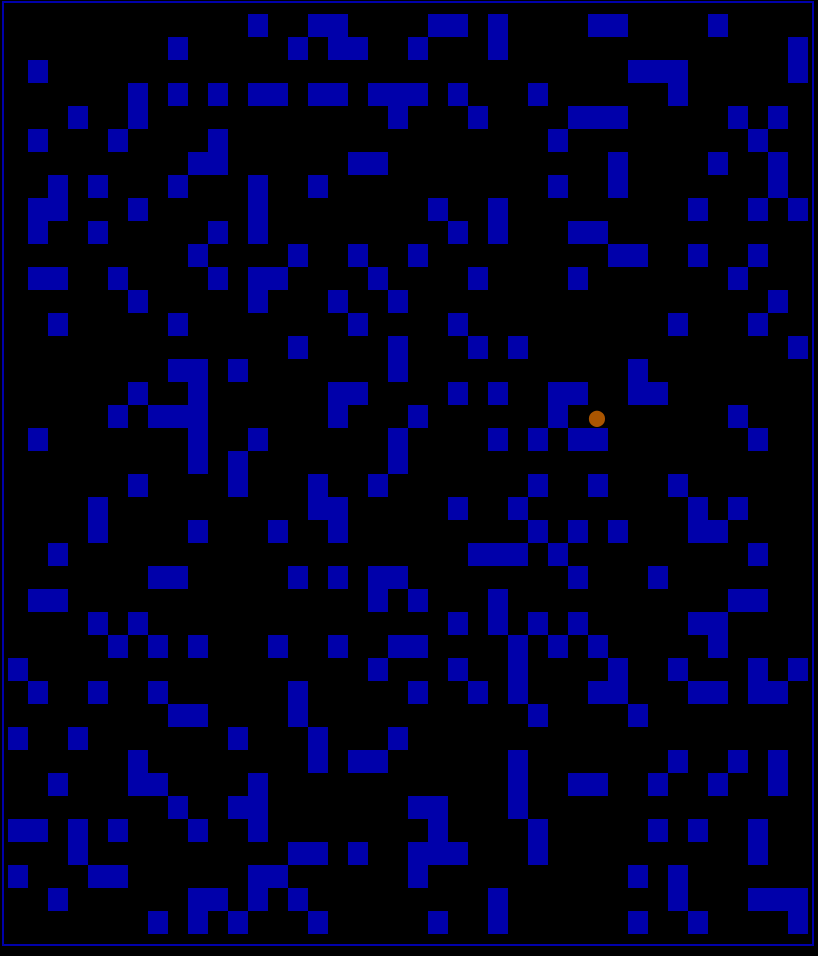
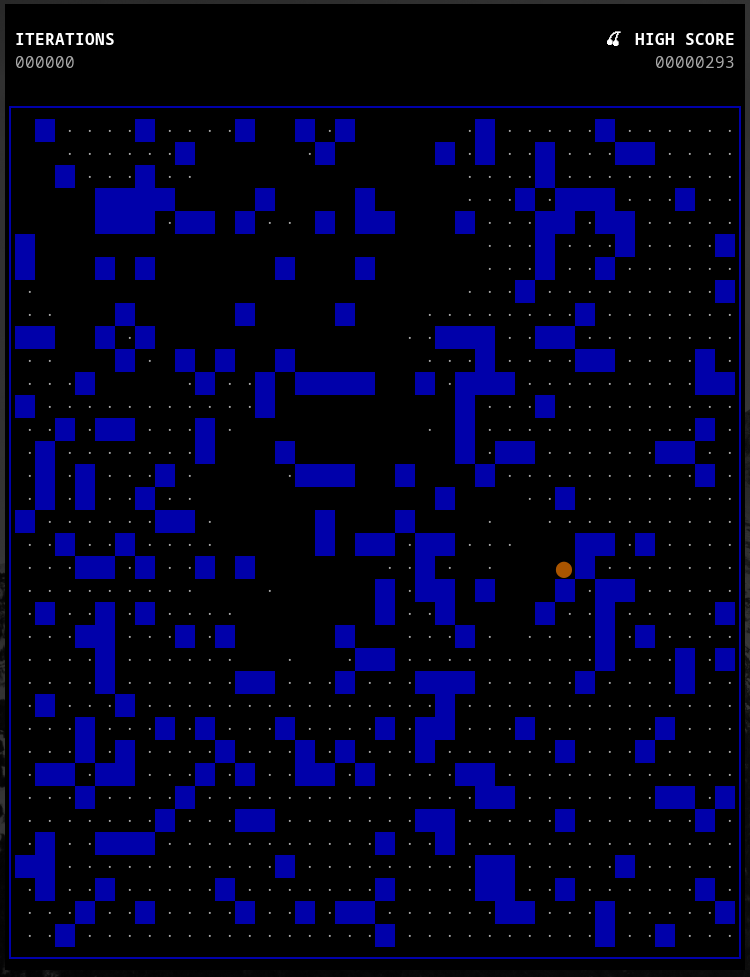
Added score display. Wrap randomization within the Maze object

diff --git a/src/Maze.py b/src/Maze.py
@@ -15,7 +15,7 @@ from Action import Action
 
 
 class Maze:
-    def __init__(self, size, data):
+    def __init__(self, size, data=None, wall_coverage=None, filled_reward=False):
         self._sprite = {MazeObject.WALL: ("█", "█"), MazeObject.AGENT: ("⬤", " "), MazeObject.EMPTY: (" ", " "),
                         MazeObject.ENEMIES: ("⬤", " "), MazeObject.REWARD: (" ", "·")}
         self._color = {MazeObject.WALL: curses.color_pair(2), MazeObject.AGENT: curses.color_pair(3),
@@ -24,21 +24,46 @@ class Maze:
         self._move = {Action.UP: (-1, 0), Action.DOWN: (1, 0), Action.LEFT: (0, -1), Action.RIGHT: (0, 1)}
         self._size = size
 
-        self._box = curses.newwin(self._size + 2, (self._size + 1) * 2, 0, 0)
+        self._box = curses.newwin(self._size + 2, (self._size + 1) * 2, 4, 0)
         self._box.attrset(curses.color_pair(2))
         self._box.box()
-        self._data = data
         self._agent = None
+
+        # Score box
+        self._score_box = curses.newwin(self._size + 2, (self._size + 1) * 2, 0, 0)
+        self._score = 0
+        self._iteration = 0
+
+        for line in range(4):
+            self._score_box.addstr(line, 0, " " * (self._size + 1) * 2, self._color[MazeObject.REWARD])
+
+        self._score_box.addstr(1, 0, " ITERATIONS", curses.A_BOLD | self._color[MazeObject.REWARD])
+        self._score_box.addstr(1, (self._size + 1) * 2 - 14, "🍒 HIGH SCORE", curses.A_BOLD | self._color[MazeObject.REWARD])
+        self._update_score()
+        self._update_iteration()
+
+        # Initialize data
+        self._data = data
+        if self._data is None:
+            if wall_coverage < 0 or wall_coverage >= 1:
+                raise Exception("Coverage should be between 0.0 and 1.0")
+
+            non_wall_obj = MazeObject.EMPTY.value
+            if filled_reward:
+                non_wall_obj = MazeObject.REWARD.value
+
+            self._data = np.random.choice([MazeObject.WALL.value, non_wall_obj], size=(size, size),
+                                          p=[wall_coverage, 1.0 - wall_coverage])
 
         # Initialize agent position
         while True:
             x = np.random.randint(0, self._size)
             y = np.random.randint(0, self._size)
 
-            if data[y][x] == MazeObject.WALL.value:
+            if self._data[y][x] == MazeObject.WALL.value:
                 continue
 
-            data[y][x] = MazeObject.AGENT.value
+            self._data[y][x] = MazeObject.AGENT.value
             self._agent = (y, x)
             break
 
@@ -51,7 +76,14 @@ class Maze:
                 self._box.addstr(j + 1, 2 * i + 1, char[0], self._color[obj])
                 self._box.addstr(j + 1, 2 * i + 2, char[1], self._color[obj])
 
+    def _update_score(self):
+        self._score_box.addstr(2, (self._size + 1) * 2 - 1 - len(f'{self._score:08}'), f'{self._score:08}', self._color[MazeObject.REWARD])
+
+    def _update_iteration(self):
+        self._score_box.addstr(2, 0, " " + f'{self._iteration:06}', self._color[MazeObject.REWARD])
+
     def refresh(self):
+        self._score_box.refresh()
         self._box.refresh()
 
     def get_agent_valid_move(self):
@@ -88,6 +120,13 @@ class Maze:
 
         # Set new cell to agent and change tracker
         self._agent = (self._agent[0] + self._move[direction][0], self._agent[1] + self._move[direction][1])
+
+        # Score
+        if self._data[self._agent[0]][self._agent[1]] == MazeObject.REWARD.value:
+            self._score = self._score + 1
+            self._update_score()
+
+        # Data update
         self._data[self._agent[0]][self._agent[1]] = MazeObject.AGENT.value
         char = self._sprite[MazeObject.AGENT]
         self._box.addstr(self._agent[0] + 1, 2 * self._agent[1] + 1, char[0], self._color[MazeObject.AGENT])

diff --git a/src/main.py b/src/main.py
@@ -14,10 +14,8 @@ from Maze import Maze
 from MazeObject import MazeObject
 
 # Global configuration
-maze_size = 40
-frame_per_second = 2
-
-maze = np.random.choice([MazeObject.EMPTY.value, MazeObject.WALL.value], size=(maze_size, maze_size), p=[0.8, 0.2])
+maze_size = 36
+frame_per_second = 30
 
 
 def main(screen):
@@ -36,7 +34,7 @@ def main(screen):
     screen.nodelay(True)  # Turn off keystroke waiting
     curses.use_default_colors()  # Use terminal color
 
-    m = Maze(maze_size, maze)
+    m = Maze(maze_size, wall_coverage=0.2, filled_reward=True)
 
     # Main UI loop
     while True:
